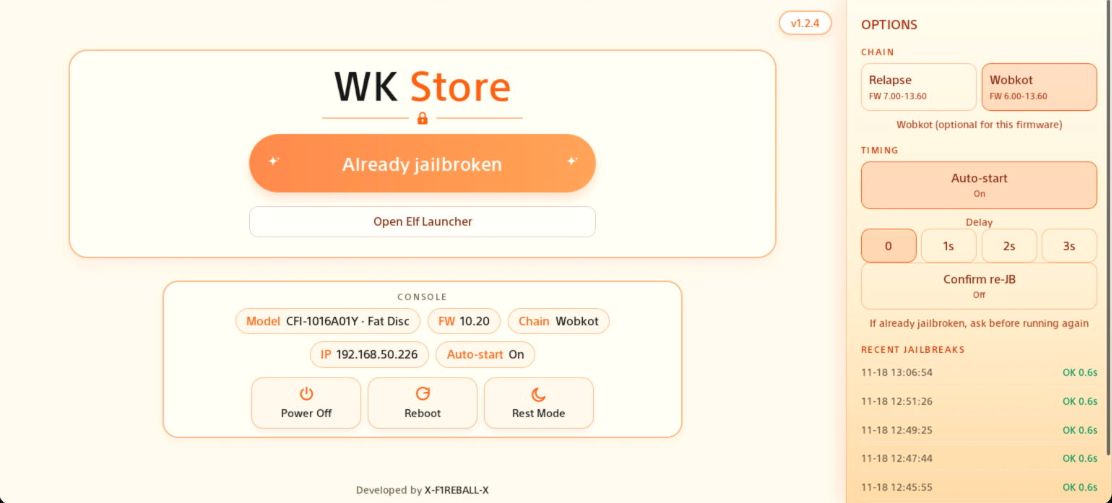
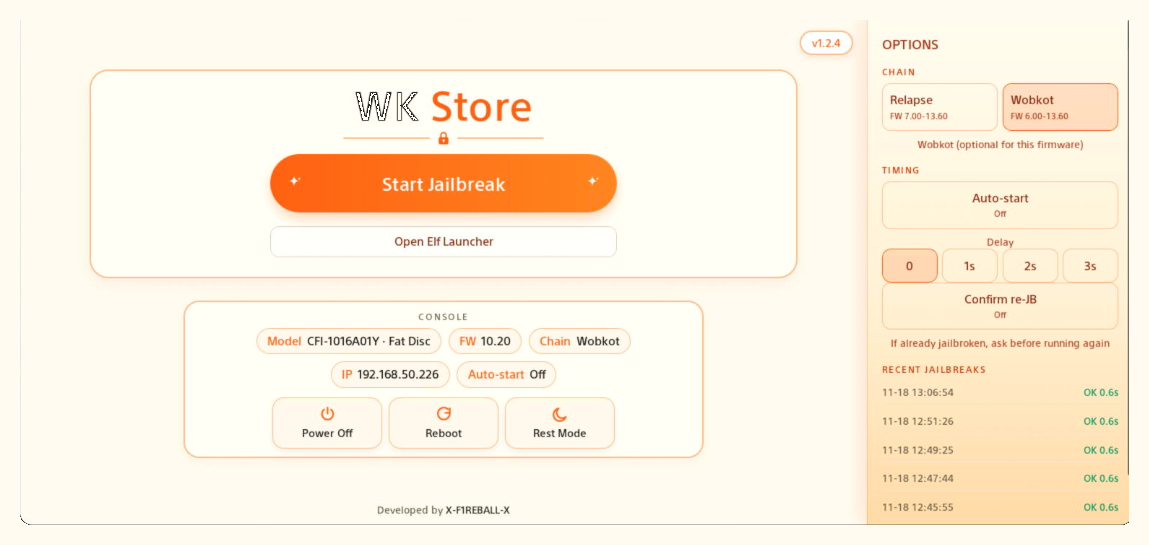
Docs: require Restore before upgrade
Spell out Restore-first install for stability, and refresh the
console gallery shot with clean margins.

Changed region(s): [[0.0306, 0.0, 1.0, 1.0], [0.2446, 0.7157, 0.2752, 0.7455], [0.214, 0.7455, 0.2446, 0.7753]]

diff --git a/README.md b/README.md
@@ -8,11 +8,14 @@ Turns the PS5 Store tile into WK Store: open the tile, start the jailbreak, and 
 
 ## Quick start
 
-1. Send [`WK_Store_V1.2.4.elf`](https://github.com/X-F1REBALL-X/wk-store/releases/latest/download/WK_Store_V1.2.4.elf) to elfldr on port `9021`.
-2. Wait for the install to finish. The console reboots on its own after Store finishes.
-3. Open the **Store** tile and press **Start Jailbreak**.
+**If WK Store is already installed, send Restore first.** That is required for a clean, stable install.
 
-If an older WK Store is already installed, send Restore first, reboot, open elfldr again, then install 1.2.4.
+1. Send [`WK_Store_Restore_V1.2.4.elf`](https://github.com/X-F1REBALL-X/wk-store/releases/latest/download/WK_Store_Restore_V1.2.4.elf) to elfldr on port `9021`, then reboot and open elfldr again.
+2. Send [`WK_Store_V1.2.4.elf`](https://github.com/X-F1REBALL-X/wk-store/releases/latest/download/WK_Store_V1.2.4.elf) to elfldr on port `9021`.
+3. Wait for the install to finish. The console reboots on its own after Store finishes.
+4. Open the **Store** tile and press **Start Jailbreak**.
+
+Fresh console with no WK Store yet: skip step 1 and start from step 2.
 
 ## Features
 
@@ -51,6 +54,21 @@ Wobkot jailbreak is about 0.6s on a good run.
 
 ## Installation
 
+Always send payloads one at a time. Wait between Restore and Store.
+
+### Already have WK Store installed
+
+Restore is required before installing again. Skipping it can leave a bad or unstable install.
+
+1. Send [`WK_Store_Restore_V1.2.4.elf`](https://github.com/X-F1REBALL-X/wk-store/releases/latest/download/WK_Store_Restore_V1.2.4.elf) to elfldr on port `9021`.
+2. Reboot the console (Restore does not reboot by itself).
+3. Open elfldr again on port `9021`.
+4. Send [`WK_Store_V1.2.4.elf`](https://github.com/X-F1REBALL-X/wk-store/releases/latest/download/WK_Store_V1.2.4.elf).
+5. Wait until install finishes. Store reboots the console by itself.
+6. Open the **Store** tile and press **Start Jailbreak**.
+
+### Fresh install (no WK Store yet)
+
 1. Send [`WK_Store_V1.2.4.elf`](https://github.com/X-F1REBALL-X/wk-store/releases/latest/download/WK_Store_V1.2.4.elf) to elfldr on port `9021`.
 2. Wait until install finishes. Store reboots the console by itself.
 3. Open the **Store** tile and press **Start Jailbreak**.
@@ -58,6 +76,8 @@ Wobkot jailbreak is about 0.6s on a good run.
 ## Restore the PlayStation Store tile
 
 Send [`WK_Store_Restore_V1.2.4.elf`](https://github.com/X-F1REBALL-X/wk-store/releases/latest/download/WK_Store_Restore_V1.2.4.elf) to elfldr on port `9021`, then reboot. Restore does not reboot on its own.
+
+Use the same Restore before every Store upgrade when WK Store is already installed.
 
 ## Building from source
 
